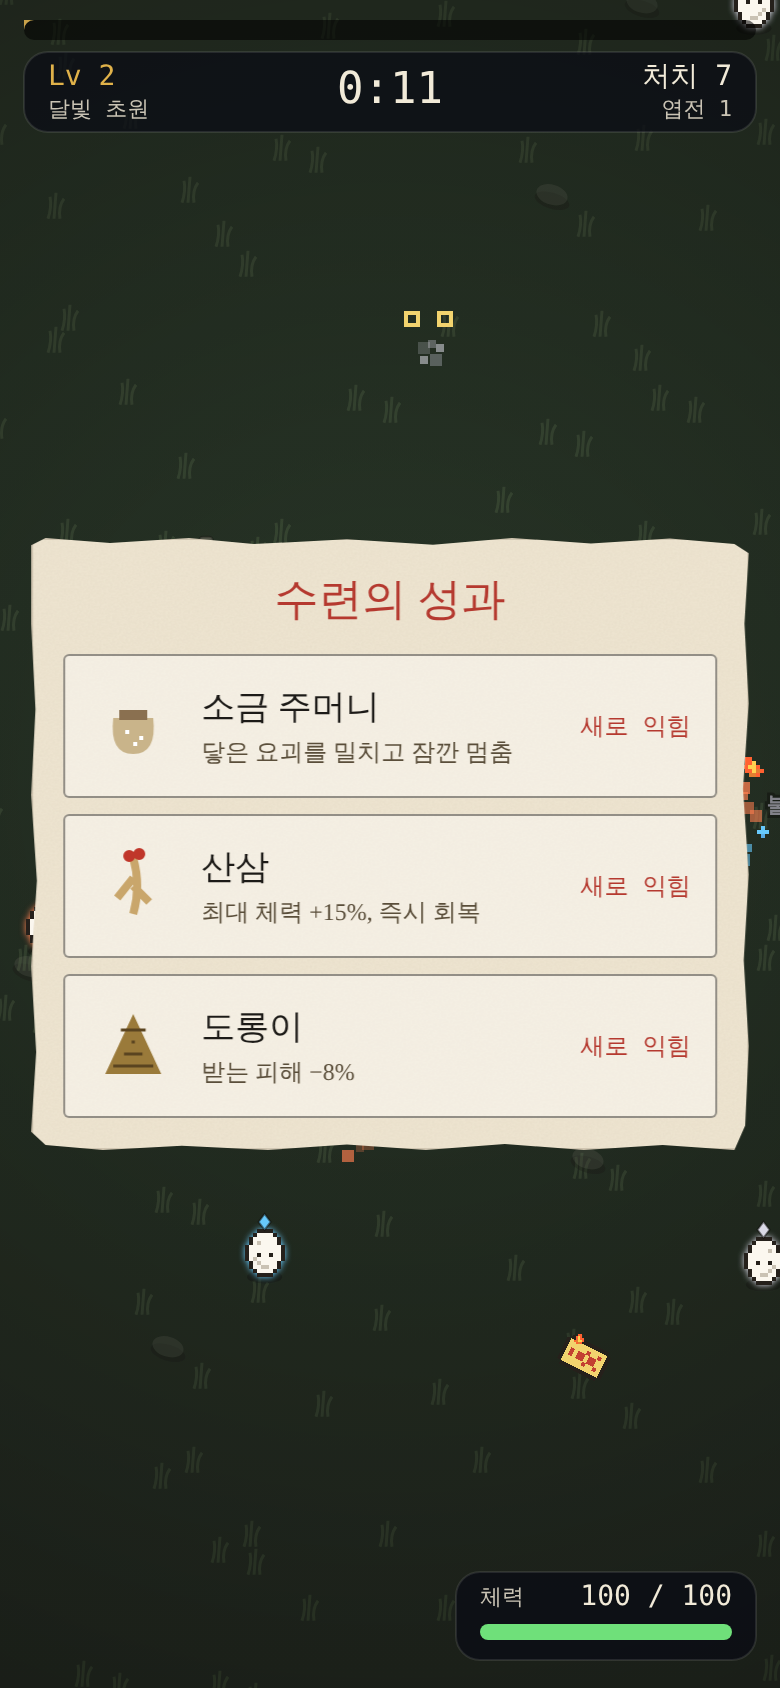
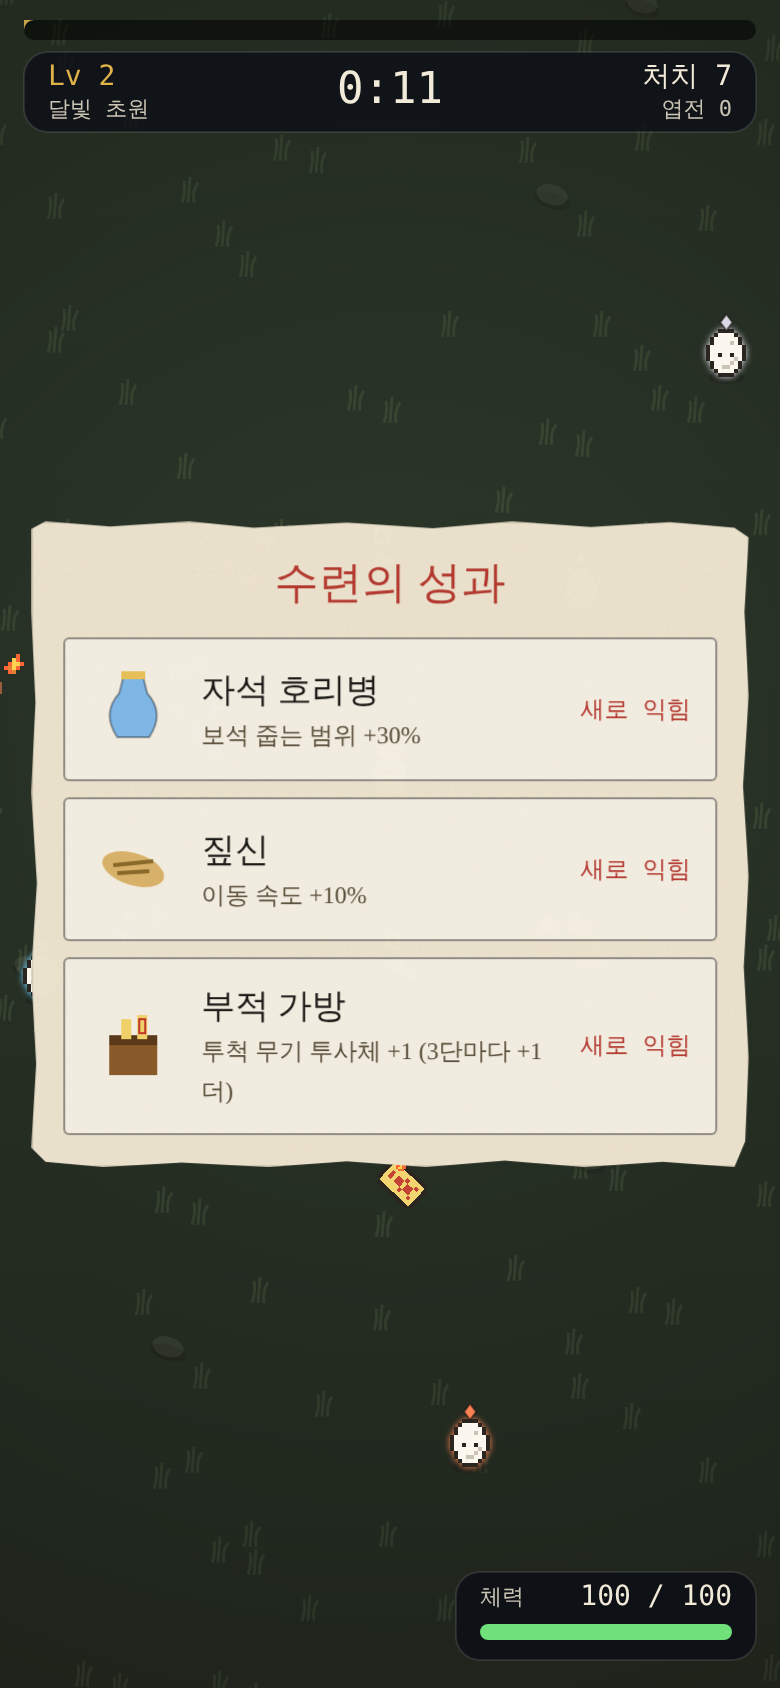
밤의 퇴마사 v17: 밸런스 재조정(공속 .8·적 이속 ×1.15·성장↑·수련 효과/비용 재설정)·정예 순환·종이 호랑이 픽셀
Claude-Session: https://claude.ai/code/session_01RmJvEQYZMU41pMZMsu4AKq

diff --git a/docs/04-night-exorcist/design.md b/docs/04-night-exorcist/design.md
@@ -193,3 +193,11 @@ challenge(n) = 1 + 0.975·(1 − 0.86^n)     (밤 단계)
 - 오라 무기: 반경 안 랜덤 위치에서 속성 픽셀이 솟았다 사라짐(초당 6 + 반경/14 개, 지속 중 계속). 화로 = 불꽃이 올라왔다 꺼짐, 물안개 = 방울이 떨어짐, 모래 바람 = 먼지, 쑥뜸 = 연기 …
 - 투사체 = 무기 픽셀 스프라이트를 진행 방향으로 회전 + 속성 잔상 픽셀. 화상 중인 요괴 = 몸 위 픽셀 불꽃(기존 원형 표식 제거), 화상 DoT 는 흰 점멸 없이(`quiet`). 물웅덩이 = 픽셀 파문, 불구덩이 = 불꽃, 낙석/낙뢰 충격 = 파편, 번개 연쇄 끝 스파크, 처치 시 속성 픽셀. 기존 둥근 파티클도 2px 격자 사각형으로
 - 성능: 적 58 + 덱 4 + PFX ~90 에서 p95 3.8ms
+
+## 23. v17 — 호원 실플레이 피드백 2: 밸런스 재조정 (10/04, BALANCE=3)
+호원: 초원을 메타 0 첫 런에 클리어, 공격 4단 찍고 나니 다음 판은 위기 없음, 이대로면 쉬움 3~4에서 수련 다 찍음. **시뮬이 틀렸다**: run-sim 은 NORMAL 메타0 사망 7:38 이라 했지만 사람은 메타0에 깼고, 크루드 봇조차 3/3 클리어. 초반 "풀접촉" 가정이 너무 가혹해 수련 효과를 올리는 쪽으로 오판했던 것. 이후 초반 밸런스는 시뮬 대신 **봇 3런 + 실측** 기준
+- 공속 0.8배(`ATK_SPD`), 적 체력 성장 1.0032→1.0038, 스폰 가속 .006→.0075, **적 이속 ×1.15**(`ENEMY_SPD` — 봇 실험에서 카이팅을 깨는 유일한 레버. 스폰·접촉은 올려도 봇이 그냥 깼다)
+- 수련 효과 되돌림: 공격 +5%/단 · 체력 +6% · 회복 +10% · 이속 +3% · 획득 +8% (상한 ×1.25/×1.3/×1.5). 비용 60×1.8^lv → 항목당 1342, 전부 6710. 클리어 엽전 100→60 → 한 런 ≈ 200~300 → 전부 찍는 데 20런+ (쉬움 3~4 에서 끝나지 않게)
+- 봇 3런(초원 메타0 시작덱): 3:05 · 3:09 · 클리어 — 숙련자(호원)는 깨되 긴장이 생길 구간
+- 정예: 랜덤 → 로스터 순서 순환(달걀만 보인다는 피드백 → 5종 다 등장 보장)
+- 종이 호랑이: 벡터 → 달리는 2프레임 픽셀 호랑이
